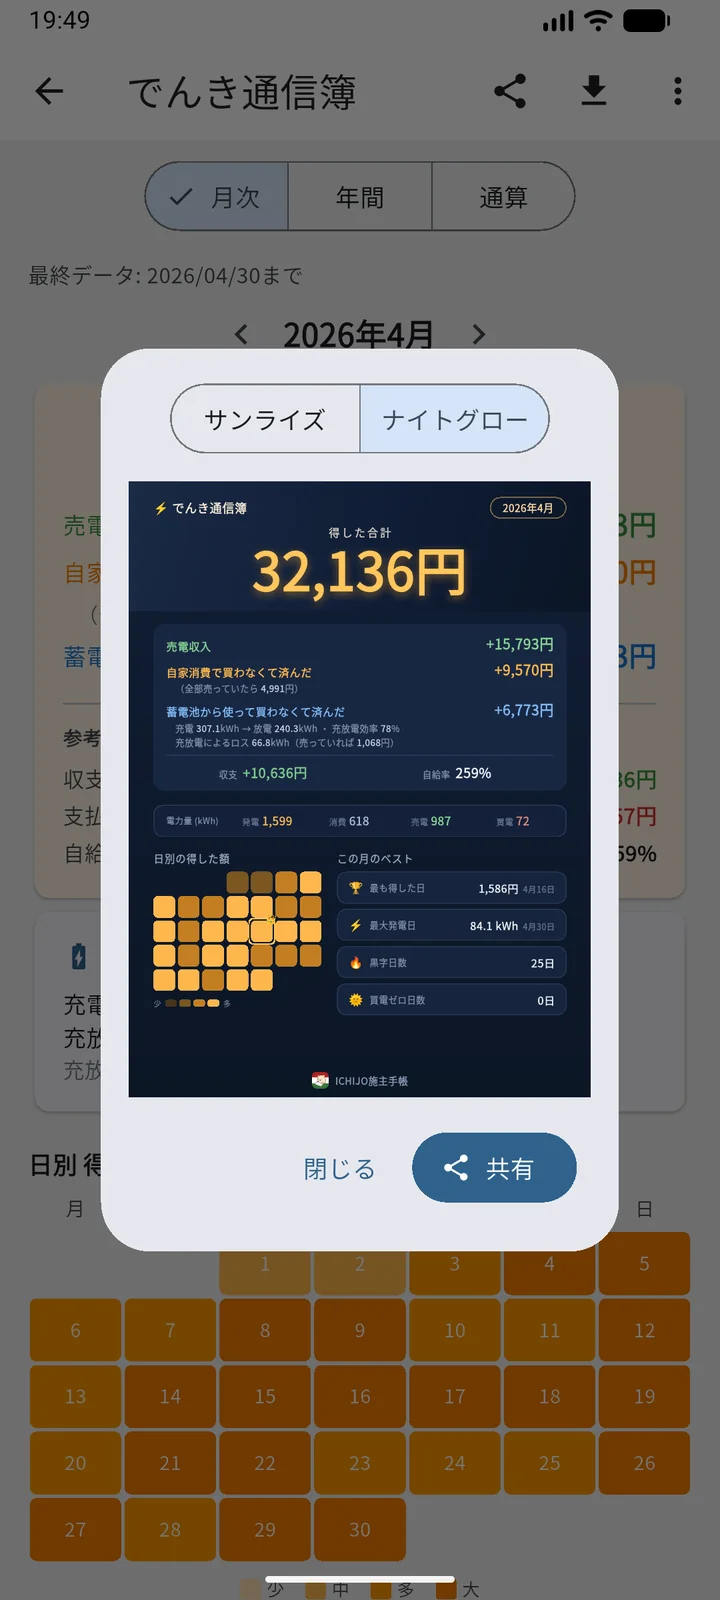
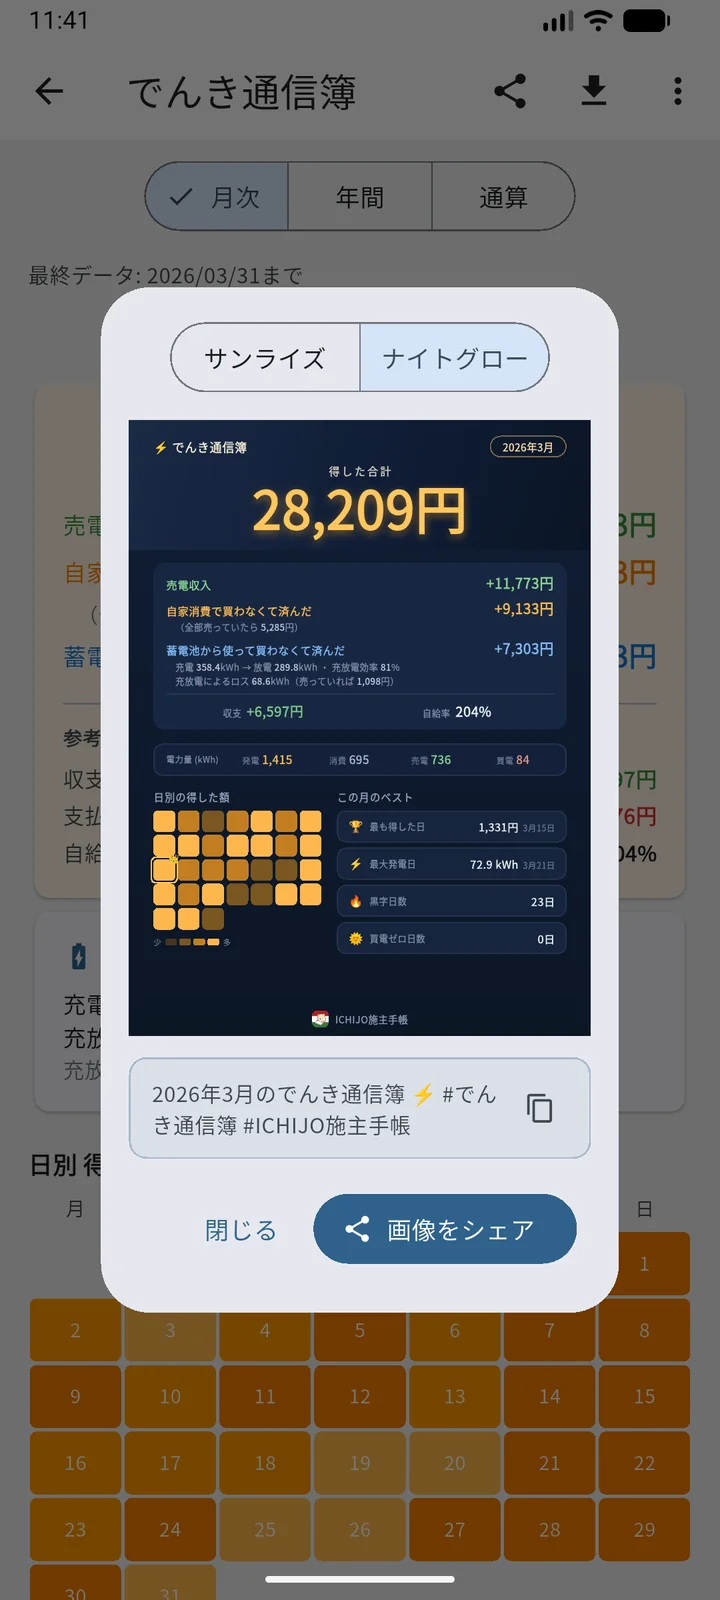
docs: update electricity share section for image-only sharing flow

diff --git a/docs/manual.html b/docs/manual.html
@@ -3194,7 +3194,8 @@
 <ol>
   <li>月次画面の右上のシェアアイコンをタップ</li>
   <li>プレビュー上部で配色を選択：<strong>サンライズ</strong>（明るいオレンジ）／<strong>ナイトグロー</strong>（深紺）。選んだ配色は次回も記憶されます</li>
-  <li>「共有」をタップ →「保存」か「共有」を選択。共有では対応アプリ（X など）に紹介文（ハッシュタグつき）も一緒に渡ります。Instagram のように画像だけを受け取るアプリもあります</li>
+  <li>投稿に文章も載せたい場合は、プレビュー下の枠内にある投稿用の文（ハッシュタグつき）をコピーボタンでコピーしておきます</li>
+  <li>「画像をシェア」をタップ →「保存」か「共有」を選択。共有で送られるのは<strong>画像のみ</strong>です。文章は SNS の投稿画面で貼り付けてお使いください（テキストと画像を同時に渡すと画像が消えてしまうアプリがあるため、この方式にしています）</li>
 </ol>
 
 <div class="shot-grid">
@@ -3223,7 +3224,7 @@
   <div class="action-row"><strong>← / →</strong><span>月／年ナビゲーション</span></div>
   <div class="action-row"><strong>日付タップ（ヒートマップ）</strong><span>その日の時間別詳細をボトムシートで表示</span></div>
   <div class="action-row"><strong>月タップ（年間：月別一覧）</strong><span>月次レポートへジャンプ</span></div>
-  <div class="action-row"><strong>右上 シェア（月次のみ）</strong><span>月次レポートのシェア画像を作成（配色 2 種・保存/共有）</span></div>
+  <div class="action-row"><strong>右上 シェア（月次のみ）</strong><span>月次レポートのシェア画像を作成（配色 2 種・投稿文コピー・画像を保存/共有）</span></div>
   <div class="action-row"><strong>右上 CSVエクスポート</strong><span>月次／年間レポートを CSV で書き出し</span></div>
   <div class="action-row"><strong>右上メニュー</strong><span>CSVインポート／料金プラン設定／再計算／実績データ削除</span></div>
   <div class="action-row"><strong>「目標金額を変更」ボタン</strong><span>投資回収ゴールの追加・編集・削除（最大5件）</span></div>
